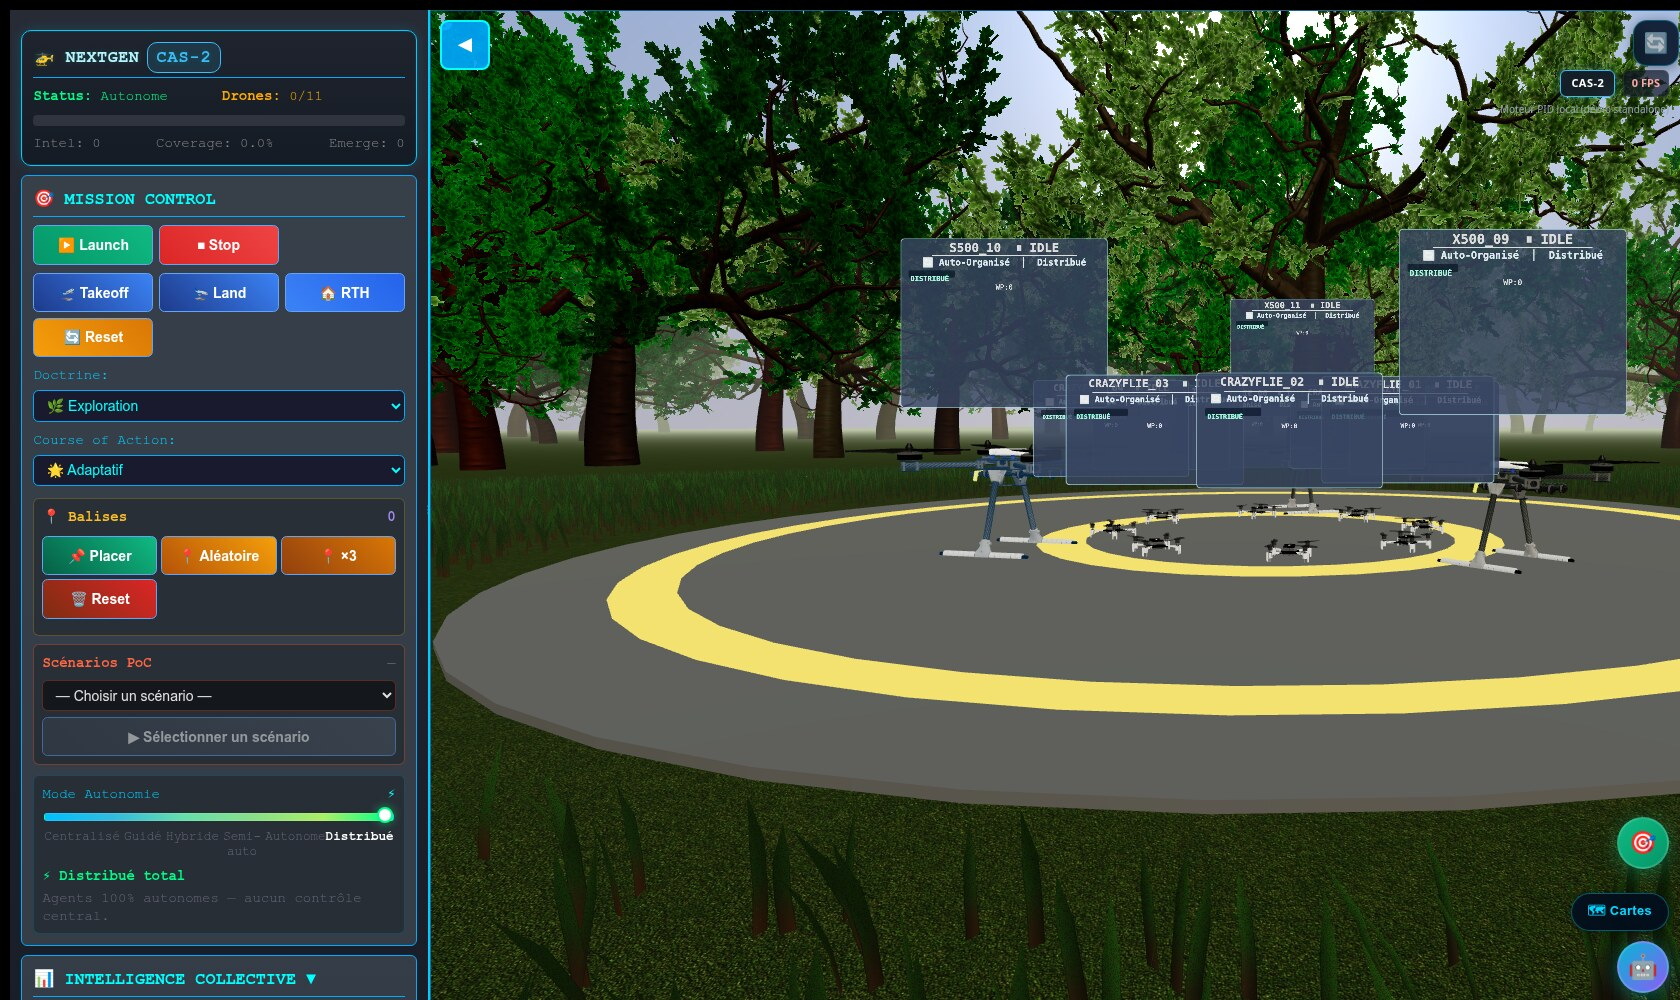
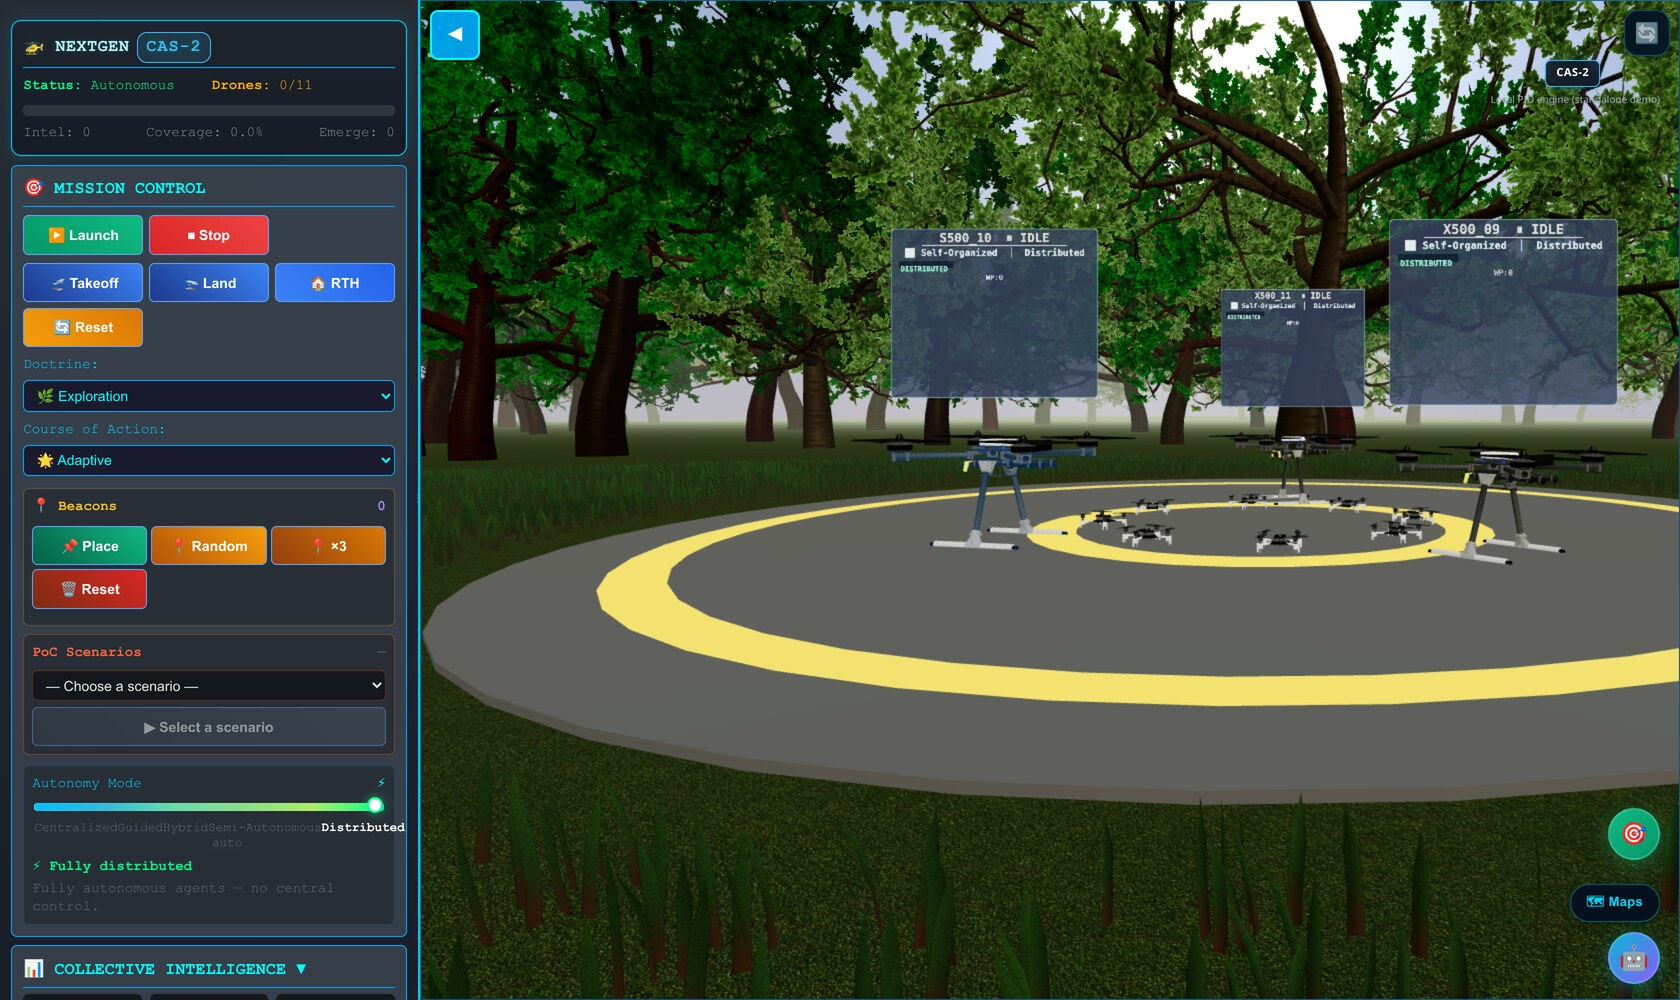
Recapture the README screenshots with the English UI
Retake the simulation and control-panel screenshots now that the
interface is in English, and translate the last few remaining labels
(system status, collective-intelligence heading, toolbar tooltips).

diff --git a/DIAMANTS_FRONTEND/Mission_system/index.html b/DIAMANTS_FRONTEND/Mission_system/index.html
@@ -1776,10 +1776,10 @@
 <body>
     <!-- DIAMANTS Forest container -->
     <!-- Bouton pour masquer/afficher le panneau -->
-    <button id="toggle_panel" onclick="togglePanel()" title="Afficher le panneau">☰</button>
+    <button id="toggle_panel" onclick="togglePanel()" title="Show panel">☰</button>
 
     <!-- ═══ AUTO-ROTATION BUTTON (top-right) ═══ -->
-    <button id="auto-rotate-btn" onclick="toggleAutoRotate()" title="Rotation automatique" style="
+    <button id="auto-rotate-btn" onclick="toggleAutoRotate()" title="Auto-rotate" style="
         position: fixed;
         top: 10px;
         right: 10px;
@@ -2043,7 +2043,7 @@
          SECTION 3: COLLECTIVE INTELLIGENCE — key metrics
          ═══════════════════════════════════════════════════════════════════ -->
     <div class="ros_panel">
-        <h3 onclick="toggleSection('metrics-content')" style="cursor: pointer;">📊 Intelligence Collective ▼</h3>
+        <h3 onclick="toggleSection('metrics-content')" style="cursor: pointer;">📊 Collective Intelligence ▼</h3>
         <div id="metrics-content">
             <div class="metric_display">
                 <div class="metric_item">
@@ -2192,8 +2192,8 @@
             <div class="mission_control" style="margin-top: 6px;">
                 <button class="btn_ros" onclick="toggleMinimap()">🗺️ Minimap</button>
 
-                <button class="btn_ros" onclick="toggleDroneLabels()" id="btn-toggle-labels" style="background: linear-gradient(45deg, #2a4a6a, #3a6a9a);" title="Afficher/masquer les labels 3D">🏷️ Labels</button>
-                <button class="btn_ros" onclick="toggleCommWaves()" id="btn-toggle-comm" style="background: linear-gradient(45deg, #005566, #00aabb);" title="Afficher/masquer les ondes de communication 3D">📡 Waves</button>
+                <button class="btn_ros" onclick="toggleDroneLabels()" id="btn-toggle-labels" style="background: linear-gradient(45deg, #2a4a6a, #3a6a9a);" title="Show/hide 3D labels">🏷️ Labels</button>
+                <button class="btn_ros" onclick="toggleCommWaves()" id="btn-toggle-comm" style="background: linear-gradient(45deg, #005566, #00aabb);" title="Show/hide 3D comm waves">📡 Waves</button>
             </div>
         </div>
     </div>

diff --git a/DIAMANTS_FRONTEND/Mission_system/core/cas-controller.js b/DIAMANTS_FRONTEND/Mission_system/core/cas-controller.js
@@ -217,14 +217,14 @@ export class CasController {
         if (statusEl) {
             if (ic?.missionStarted) statusEl.textContent = 'Mission active';
             else if (this.backendActive) statusEl.textContent = 'Backend ROS';
-            else if (this.engineReady) statusEl.textContent = 'Autonome';
-            else statusEl.textContent = 'Initialisation';
+            else if (this.engineReady) statusEl.textContent = 'Autonomous';
+            else statusEl.textContent = 'Initializing';
         }
 
         const footer = document.getElementById('system_status_footer');
         if (footer && total > 0) {
             const flying = drones.filter((d) => d.state && d.state !== 'IDLE' && d.state !== 'LANDED').length;
-            footer.textContent = `${flying}/${total} actifs · ${meta.short} · ${this._fps || '—'} FPS`;
+            footer.textContent = `${flying}/${total} active · ${meta.short} · ${this._fps || '—'} FPS`;
         }
 
         if (!this.wsConnected) {